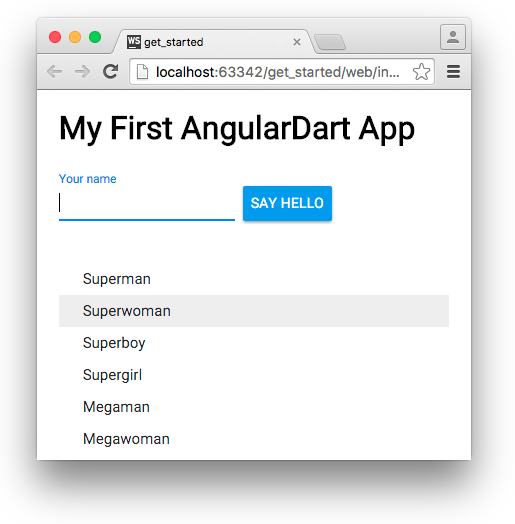
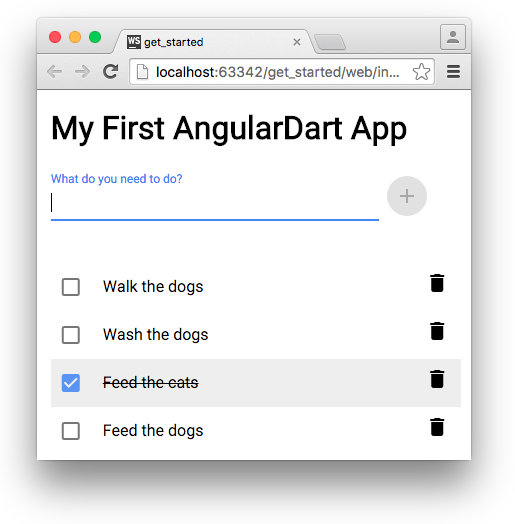
[WIP] Updated Get Started page based on new web-angular template (#609)
Updated Get Started page based on new web-angular template

diff --git a/src/_assets/stylesheets/main.scss b/src/_assets/stylesheets/main.scss
@@ -1028,7 +1028,7 @@ ul.tabs__top-bar li.current{
 
 .tabs__content{
   display: none;
-  border: 4px solid $tab-accent-color;
+  border: 2px solid $tab-accent-color;
   padding: 15px;
   margin-bottom: 15px;
 }

diff --git a/src/_guides/get-started.md b/src/_guides/get-started.md
@@ -3,11 +3,13 @@ layout: guide
 title: "Get Started"
 description: "A guide to get you quickly writing web apps in Dart."
 ---
-
 Follow these steps to start using Dart to develop web apps.
 First you'll play with Dart in your browser, no download required.
 Then you'll install Dart and build a small app
-that uses the AngularDart framework.
+that uses the [AngularDart][] framework and [AngularDart Components][].
+
+[AngularDart]: /angular
+[AngularDart Components]: /components
 
 
 ## 1. Play with DartPad
@@ -16,17 +18,17 @@ With DartPad you can experiment with the Dart language and APIs,
 no download necessary.
 
 For example, here's an embedded DartPad that lets you play with
-the code for a superhero name generator.
+the code for a todo-list generator.
 Click run ( {% img 'red-run.png' %} ) to run the app.
-You can also edit the source code—perhaps you'd like to add a "dog" suffix.
-To get the full DartPad experience,
-<a href="https://dartpad.dartlang.org/d01f9074dc1001595159ef2b4eb68a0d"
+You can also edit the source code—perhaps you'd like to add "horse"
+to the list of pets. To get the full DartPad experience,
+<a href="https://dartpad.dartlang.org/9ab0406003c8ba8c727861c9468ba158"
    target="_blank">open the example at dartpad.dartlang.org</a>.
 
 <iframe
-    src="{{site.custom.dartpad.embed-inline-prefix}}?id=d01f9074dc1001595159ef2b4eb68a0d&verticalRatio=60"
+    src="{{site.custom.dartpad.embed-inline-prefix}}?id=9ab0406003c8ba8c727861c9468ba158&verticalRatio=70"
     width="100%"
-    height="500px"
+    height="450px"
     style="border: 1px solid #ccc;">
 </iframe>
 
@@ -106,7 +108,7 @@ in Dartium or any other browser.
 More information: [Dart tools for the web](/tools)
 
 
-## 4. Create and run a web app
+## 4. Create a web app
 
 We recommend using Angular for your Dart web apps,
 but you have [other options](/guides/web-programming) as well.
@@ -118,9 +120,16 @@ Here's how to use WebStorm to create a web app that uses AngularDart:
 1. If the **Dart SDK path** and **Dartium path** fields don't have values, enter them.
 1. Edit the **Location** field to set the app location and name. 
 1. Select **Generate sample content** to show the list of templates.
-1. Choose the **Angular Web Application** template.
+1. Choose the **AngularDart Web App** template.
 1. Click **Create**.<br clear>
 ![WebStorm screenshot](images/create-ng2-project.png)
+
+More information:
+
+* [Installing and using WebStorm](/tools/webstorm)
+* [Setup for AngularDart development](/angular/guide/setup)
+
+## 5. Run the app
 
 To run the app from WebStorm, right-click the app's `web/index.html` file and choose
 **Run 'index.html'**.
@@ -129,54 +138,37 @@ To run the app from WebStorm, right-click the app's `web/index.html` file and ch
 
 {% include pub-get-workaround.html %}
 
-More information:
+You should see a simple todo list manager. Try it out!
 
-* [Installing and using WebStorm](/tools/webstorm)
-* [Setup for AngularDart development](/angular/guide/setup)
+![Running the customized app from WebStorm](images/run-app.png)
 
-
-## 5. Add custom code to the app
+## 6. Add custom code to the app
 
 Let's customize the app you just created.
 
 <ol markdown="1">
 <li markdown="1">
-  Copy the `buildNames()` function from the DartPad above
-  to the bottom of the `lib/app_component.dart` file.
+  Copy the `thingsTodo()` function from the DartPad above
+  to the bottom of the `lib/todo_list/todo_list_service.dart` file.
 </li>
 
 <li markdown="1">
-  Still in `lib/app_component.dart`, add a `heroes` field to the `AppComponent` class:
+  Still in `todo_list_service.dart`, initialize the `mockTodoList` field using
+  `thingsTodo()`:
 
 {% prettify dart %}
-class AppComponent {
-  [[highlight]]List<String> heroes = buildNames().toList();[[/highlight]]
+class TodoListService {
+  [[highlight]]List<String> mockTodoList = thingsTodo().toList();[[/highlight]]
+  ...
 }
+
+[[highlight]]Iterable<String> thingsTodo() sync* { ... }[[/highlight]]
 {% endprettify %}
 </li>
 
 <li markdown="1">
-  Edit the corresponding template, `lib/app_component.html`,
-  copying the following code to the bottom of the file:
-
-{% prettify html %}{% raw %}
-<material-list>
-    <material-list-item *ngFor="let hero of heroes"
-                        (click)="myDialog.open(hero)">
-        {{ hero }}
-    </material-list-item>
-</material-list>
-{% endraw %}{% endprettify %}
-
-  This code uses the Angular `*ngFor` syntax to loop through
-  the component's `heroes` list.
-  At runtime, Angular creates a `<material-list-item>` element for each item in `heroes`,
-  replacing `{% raw %}{{ hero }}{% endraw %}`
-  with the current item's value (a hero's name).
-</li>
-
-<li markdown="1">
-  Run the app. You should see the list of heroes! 
+  Run the app. Now the initial todo list has things to do!
+  After you feed the cats, your todo list should look like this:
 
   ![Running the customized app from WebStorm](images/run-customized-app.png)
 </li>
